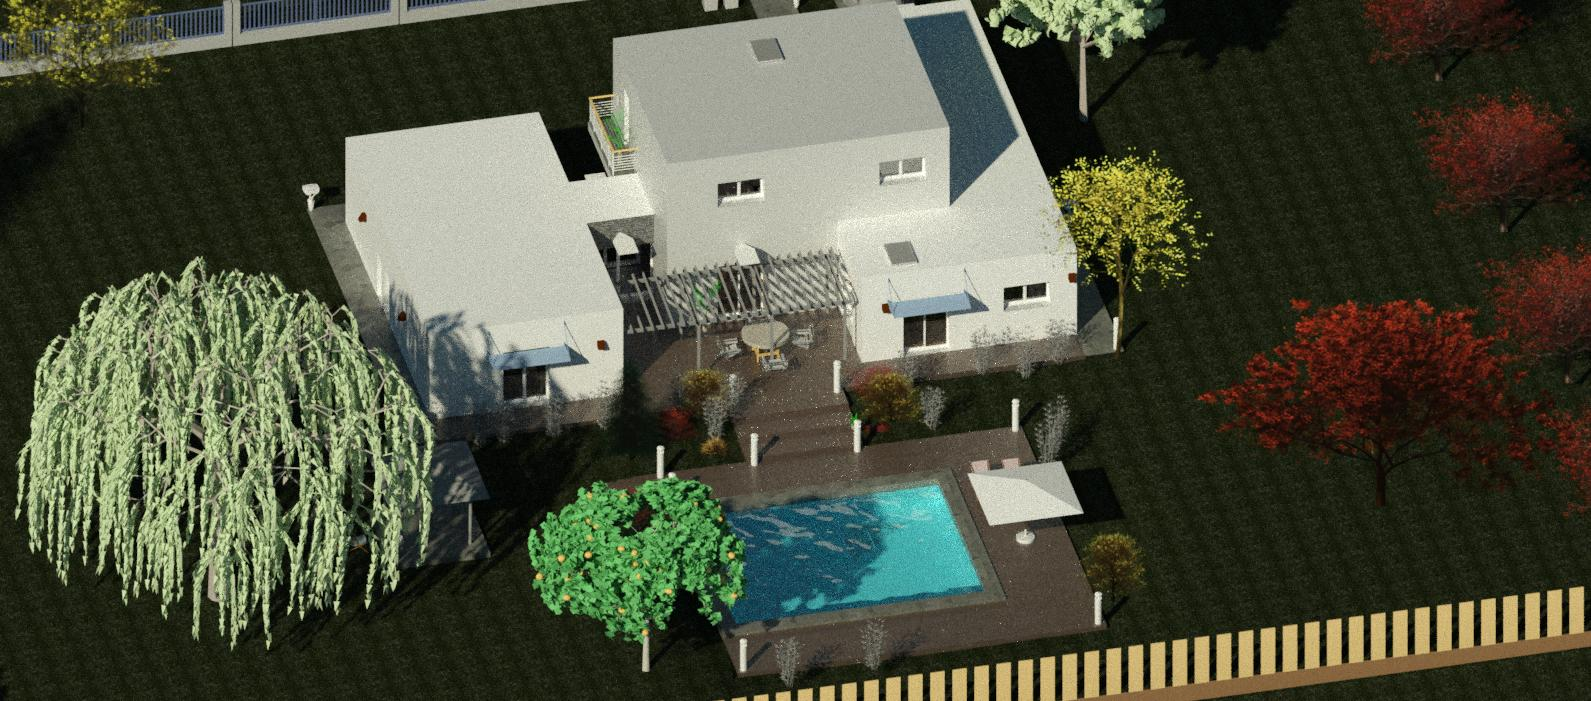
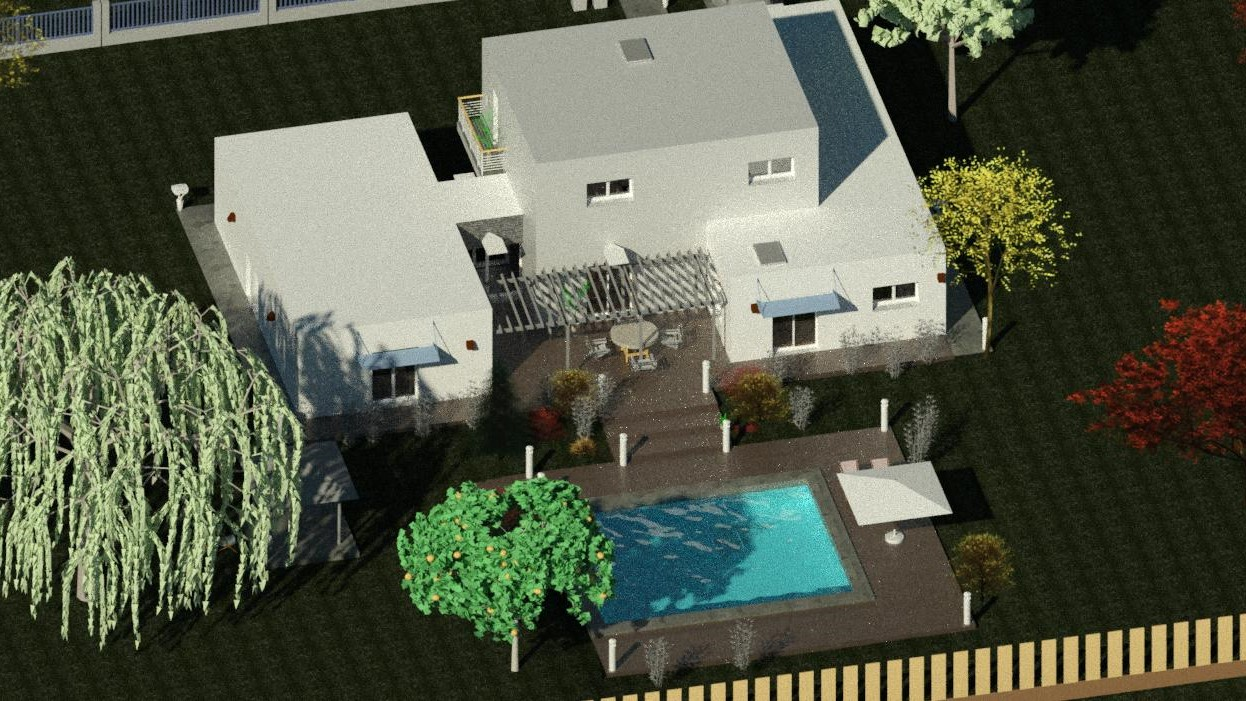
photo sliders
adds photosliders

diff --git a/layouts/shortcodes/photo_gallery.html b/layouts/shortcodes/photo_gallery.html
@@ -1,0 +1,100 @@
+<!DOCTYPE html>
+<html>
+  <head>
+    <title>Slideshow Images</title>
+    <style>
+
+.window {
+  width: 800px;
+  height: 450px;
+  margin-left: auto;
+  margin-right: auto;
+  overflow: hidden;
+  text-align: center;
+}
+
+.image-container {
+  width: 5000px;
+  height: 450px;
+  position: relative;
+  transition: left 2s;
+  -webkit-transition: left 2s;
+  -moz-transition: left 2s;
+  -o-transition: left 2s;
+}
+
+.slide {
+  float: left;
+  margin: 0;
+  padding: 0;
+}
+
+.img-responsive {
+  height:100%;
+  width: 800px;
+}
+
+.button-container {
+  top: -20px;
+  position: relative;
+}
+
+.slider-button {
+  display: inline-block;
+  height: 10px;
+  width: 10px;
+  border-radius: 5px;
+  background-color: #ff765d90;
+}
+
+#slide-1:target ~ .image-container {
+  left: 0;
+}
+
+#slide-2:target ~ .image-container {
+  left: -800px;
+}
+
+#slide-3:target ~ .image-container {
+  left: -1600px;
+}
+
+#slide-4:target ~ .image-container {
+  left: -2400px;
+}
+
+#slide-5:target ~ .image-container {
+  left: -3200px;
+
+}
+    </style>
+
+  <head>
+    <title>Image Slider</title>
+    <meta charset="UTF-8">
+    <meta name="viewport" content="width=device-width, initial-scale=1.0" />
+  </head>
+  <body>
+    <div class="window">
+      <span id="slide-1"></span>
+      <span id="slide-2"></span>
+      <span id="slide-3"></span>
+      <span id="slide-4"></span>
+      <span id="slide-5"></span>
+      <div class="image-container">
+        <img src="{{.Get "photo1"}}" class="slide">
+        <img src="{{.Get "photo2"}}" class="slide">
+        <img src="{{.Get "photo3"}}" class="slide">
+        <img src="{{.Get "photo4"}}" class="slide">
+        <img src="{{.Get "photo5"}}" class="slide">
+      </div>
+      <div class="button-container">
+        <a href="#slide-1" class="slider-button"></a>
+        <a href="#slide-2" class="slider-button"></a>
+        <a href="#slide-3" class="slider-button"></a>
+        <a href="#slide-4" class="slider-button"></a>
+        <a href="#slide-5" class="slider-button"></a>
+      </div>
+    </div>
+  </body>
+</html>

diff --git a/themes/creative-portfolio/static/css/style.red.css b/themes/creative-portfolio/static/css/style.red.css
@@ -55,7 +55,7 @@ section.background-secondary {
   font-family: "Georgia", "Times New Roman", Times, serif;
 }
 .img-responsive {
-  width : 100%;
+  width : 10%;
 }
 .no-space .box {
   margin: 0 -15px;
@@ -1221,6 +1221,8 @@ STYLE SWITCHER FOR DEMO
 #style-switch h4 {
   color: #555555;
 }
+
+
 /* ========================================= */
 /* THEMING OF BOOTSTRAP COMPONENTS           */
 /* ========================================= */
@@ -2114,3 +2116,51 @@ a.list-group-item.active > .badge,
 .nav-pills > li > a > .badge {
   margin-left: 3px;
 }
+
+      .slider {
+        width: 500px;
+        height: 300px;
+        background-color: yellow;
+        margin-left: auto;
+        margin-right: auto;
+        margin-top: 0px;
+        text-align: center;
+        overflow: hidden;
+      }
+      .image-container {
+        width: 1500px;
+        background-color: pink;
+        height: 300px;
+        clear: both;
+        position: relative;
+        -webkit-transition: left 2s;
+        -moz-transition: left 2s;
+        -o-transition: left 2s;
+        transition: left 2s;
+      }
+      .slide {
+        float: left;
+        margin: 0px;
+        padding: 0px;
+        position: relative;
+      }
+      #slide-1:target ~ .image-container {
+        left: 0px;
+      }
+      #slide-2:target ~ .image-container {
+        left: -500px;
+      }
+      #slide-3:target ~ .image-container {
+        left: -1000px;
+      }
+      .buttons {
+        position: relative;
+        top: -20px;
+      }
+      .buttons a {
+        display: inline-block;
+        height: 15px;
+        width: 15px;
+        border-radius: 50px;
+        background-color: lightgreen;
+      }

diff --git a/content/portfolio/modelisation_bim_paziol/index.md b/content/portfolio/modelisation_bim_paziol/index.md
@@ -6,7 +6,7 @@ showonlyimage = false
 Description = "Un projet de modélisation BIM d'une villa privée du Languedoc Rousillon : la Villa Paziol, par Archionline. Pour ce projet, tous les documents du permis de construire ont été reproduits sur le logiciel Autocad. Plans d'étages, vues de façades, plans masse et de situation... Puis une modélisation 3D réaliste de la villa a été réalisée en collaboration BIM sur le logiciel Revit."
 +++
 
-![Rendu réaliste extérieur](/portfolio/modelisation_bim_paziol/piscine.jpg)
+{{<photo_gallery photo1="/portfolio/modelisation_bim_paziol/piscine.jpg" photo2="/portfolio/modelisation_bim_paziol/terrasse.jpg" photo3="/portfolio/modelisation_bim_paziol/nuit.jpg" photo4="/portfolio/modelisation_bim_paziol/salon2.jpg" photo5="/portfolio/modelisation_bim_paziol/salon1.jpg">}}
 
 #### Cadre du projet
 
@@ -32,7 +32,6 @@ Des textures y sont appliquées pour un rendu plus esthétique, et nous importon
 
 Ainsi, nous produisons une maquette réaliste à partir de laquelle nous obtenons des photos de différents points de vue intérieurs et extérieurs de la villa, ainsi que deux fichiers vidéo de visite virtuelle.
 
-{{<video src="etage.mp4">}}
 
 #### Documents
 

diff --git a/content/portfolio/santiago_flux/index.md b/content/portfolio/santiago_flux/index.md
@@ -1,0 +1,15 @@
++++
+title = "Analyse SIG : flux humains à Santiago du Chili"
+draft = false
+image = "/portfolio/santiago_flux/santiago.jpg"
+showonlyimage = false
+Description = "Une analyse SIG des flux de population majoritaires dans la ville de Santiago du Chili, dans le but de dimentsionner un projet de ligne de métro."
++++
+
+{{<photo_gallery photo1="/portfolio/santiago_flux/polarites.png" photo2="/portfolio/santiago_flux/flux_pendulaires.png" photo3="/portfolio/santiago_flux/flux_activite.png" photo4="/portfolio/santiago_flux/flux_univ.png" photo5="/portfolio/santiago_flux/flux_hosp.png">}}
+
+#### Cadre du projet
+
+
+
+{{<bouton article="/portfolio/analyse_urbaine_compiègne/rapport_UR02.pdf">}}Téléchargement du rapport (fr){{</bouton>}}
